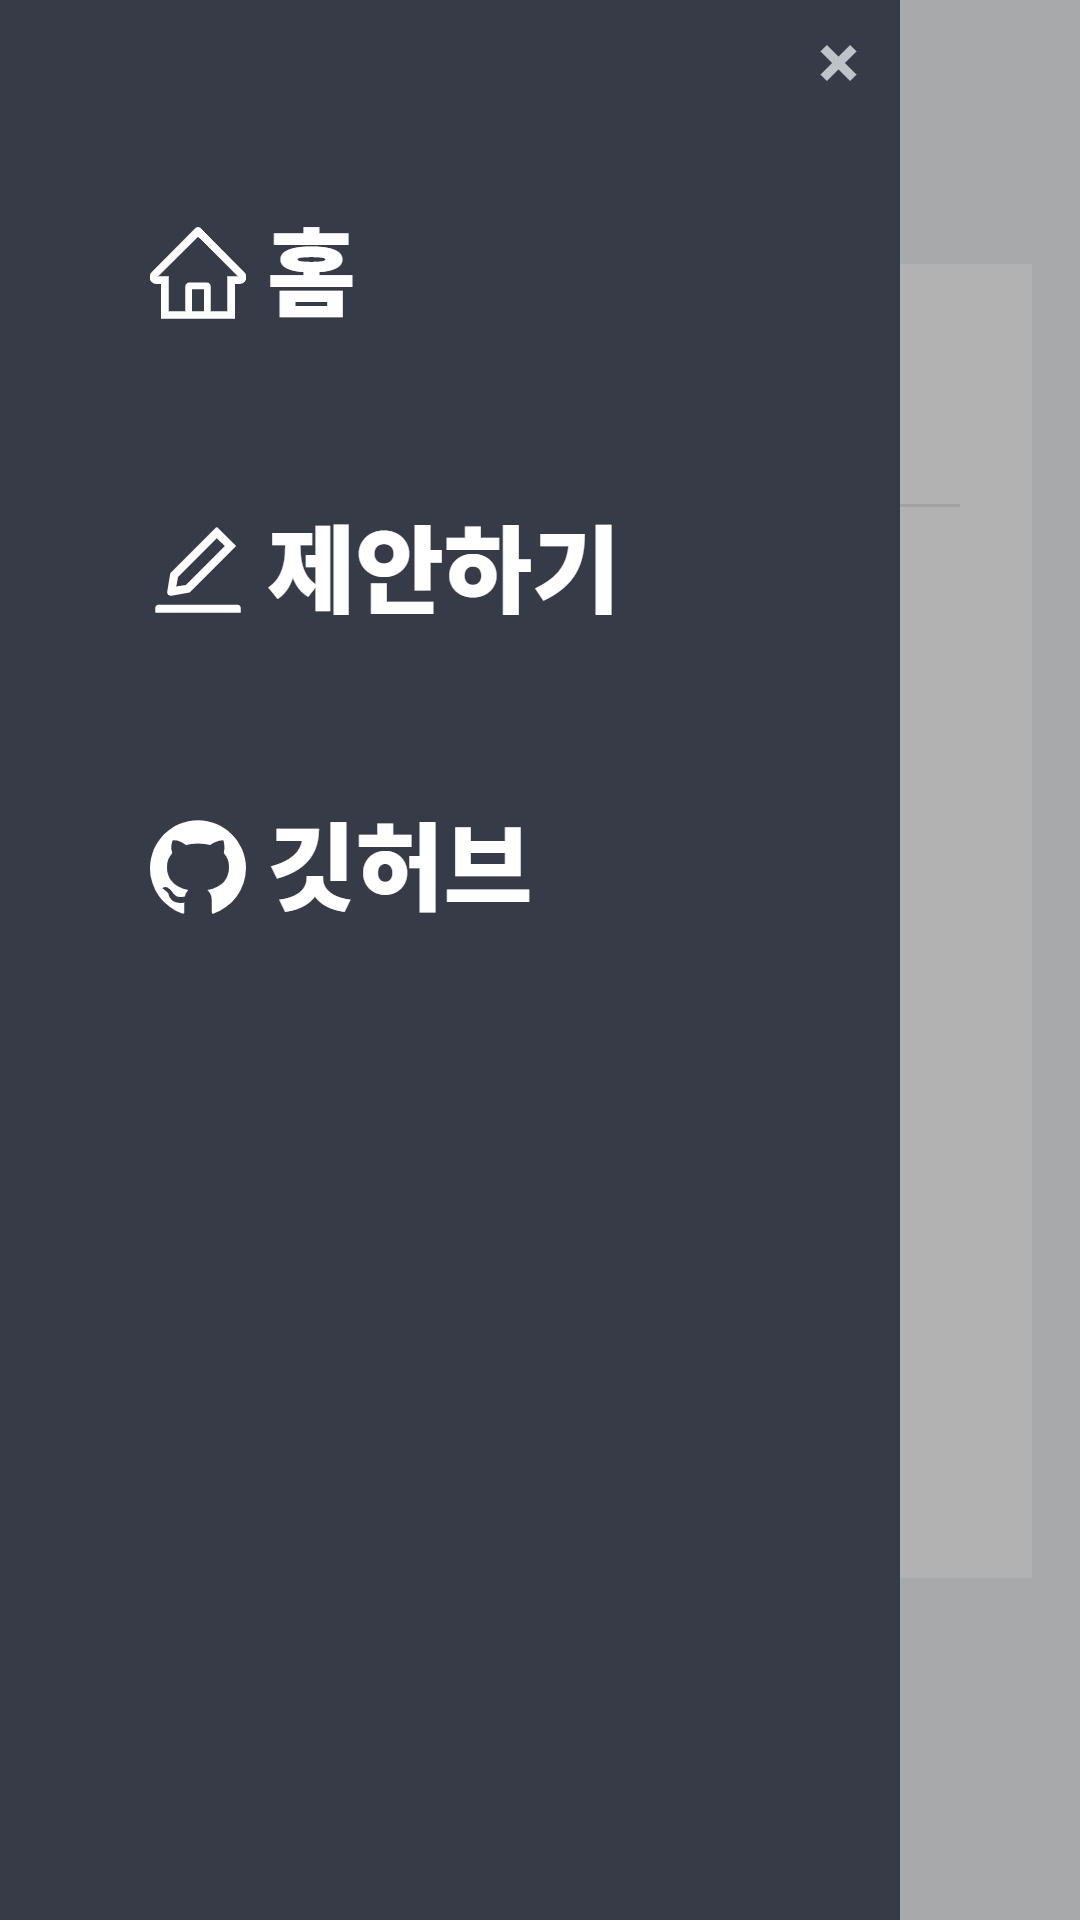
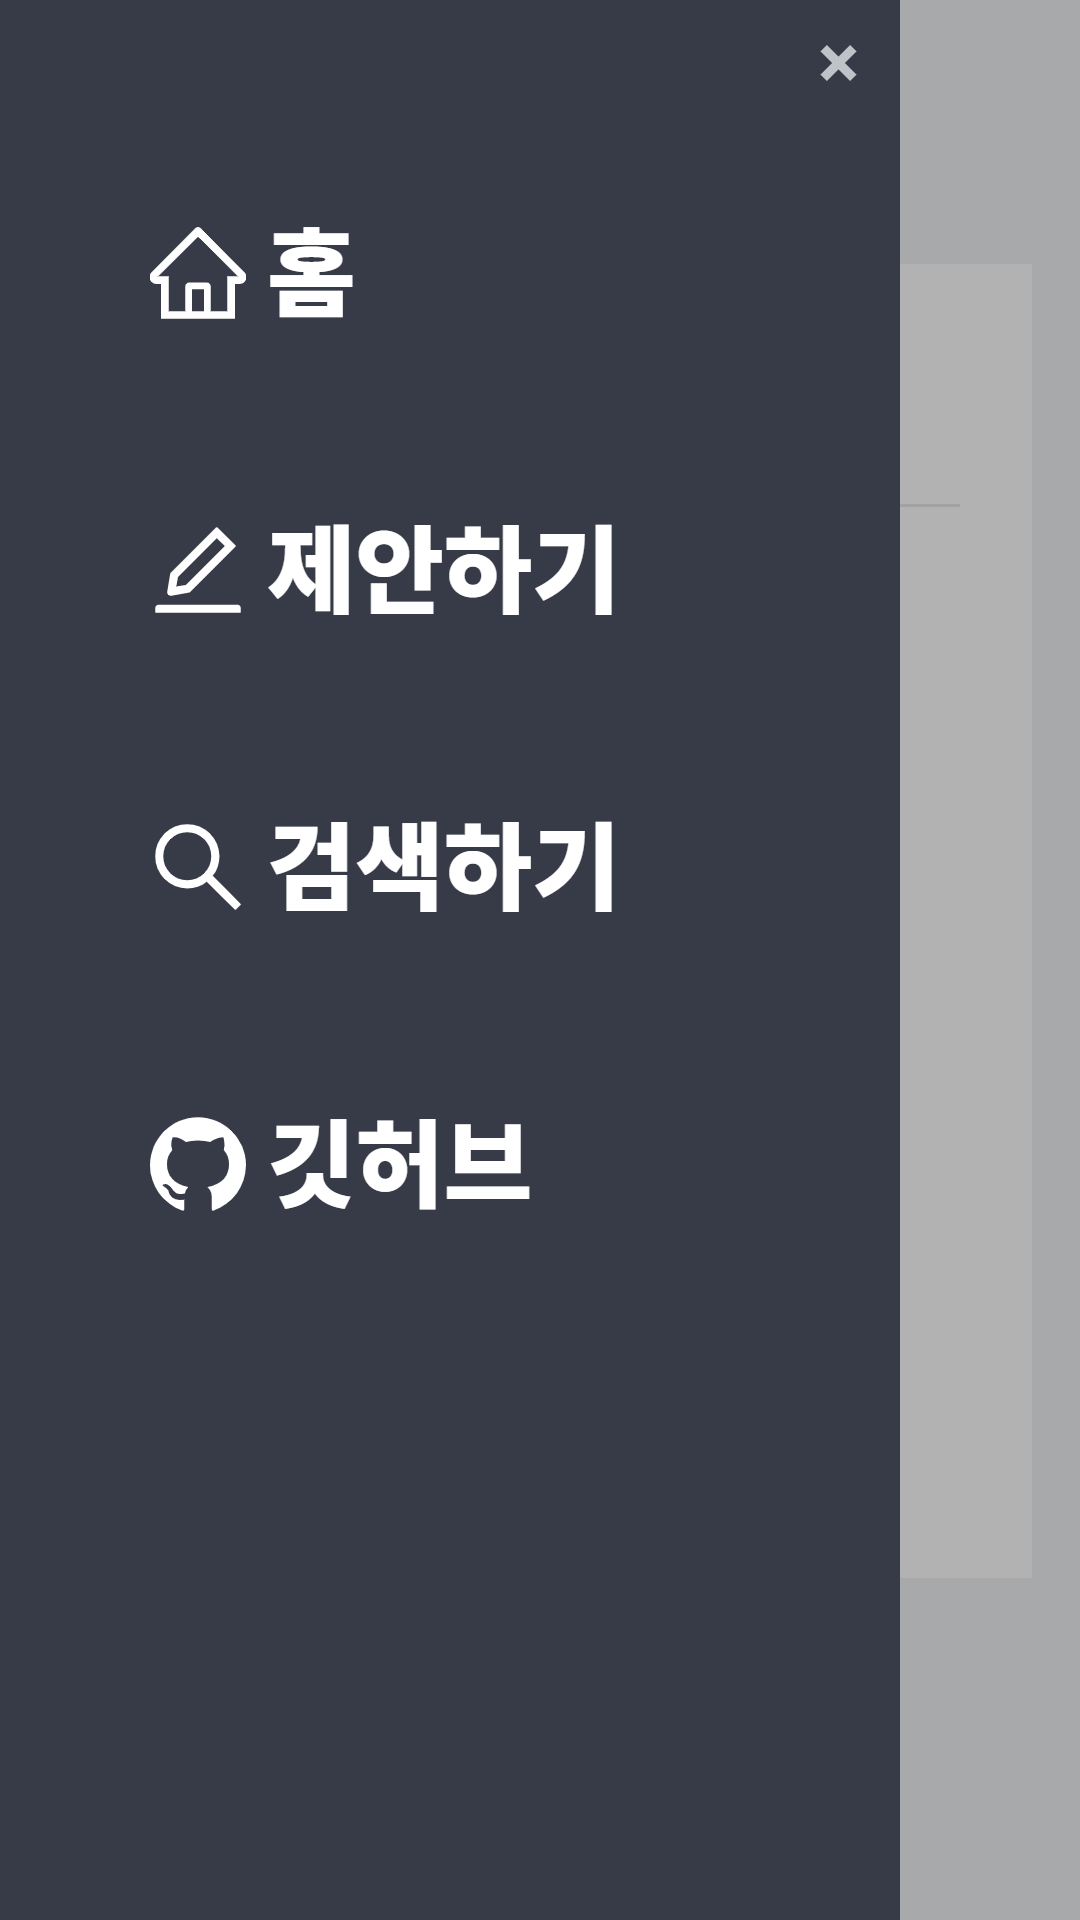
docs: Update feature todo & screenshots

Changed region(s): [[0.1222, 0.4062, 0.5806, 0.5], [0.1222, 0.5625, 0.4889, 0.625]]

diff --git a/README.md b/README.md
@@ -24,13 +24,14 @@ https://caesiumy.github.io/good-idea-cards/#/
 
 - [x] `Django REST Framework` 와 `React.js` 간의 연결
 - [x] 서버에서 랜덤으로 카드 뽑아오기
-- [x] 홈 제작
-- [x] 메뉴 제작
-- [x] 제안하기 제작
+- [x] 홈 
+- [x] 메뉴 
+- [x] 제안하기
+- [x] 검색하기
+- [x] 메뉴의 버튼을 눌렀을 때 토글 off
 - [ ] 버튼을 눌러 카드 새로 가져오기
-- [ ] 메뉴의 버튼을 눌렀을 때 토글 off
-- [ ] 애니메이션 넣기!!
 - [ ] 관리자 페이지 제작
+- [ ] 애니메이션 넣기!!
 
 ## 📷스크린샷(모바일)
 
@@ -42,4 +43,14 @@ https://caesiumy.github.io/good-idea-cards/#/
 <details>
 <summary>메뉴</summary>
 <img src="./screenshots/localhost_3000_(Galaxy&#32;S5)&#32;(1).png" width=400px>
+</details>
+
+<details>
+<summary>제안하기</summary>
+<img src="./screenshots/localhost_3000_(Galaxy&#32;S5)&#32;(3).png" width=400px>
+</details>
+
+<details>
+<summary>검색하기</summary>
+<img src="./screenshots/localhost_3000_(Galaxy&#32;S5)&#32;(2).png" width=400px>
 </details>
